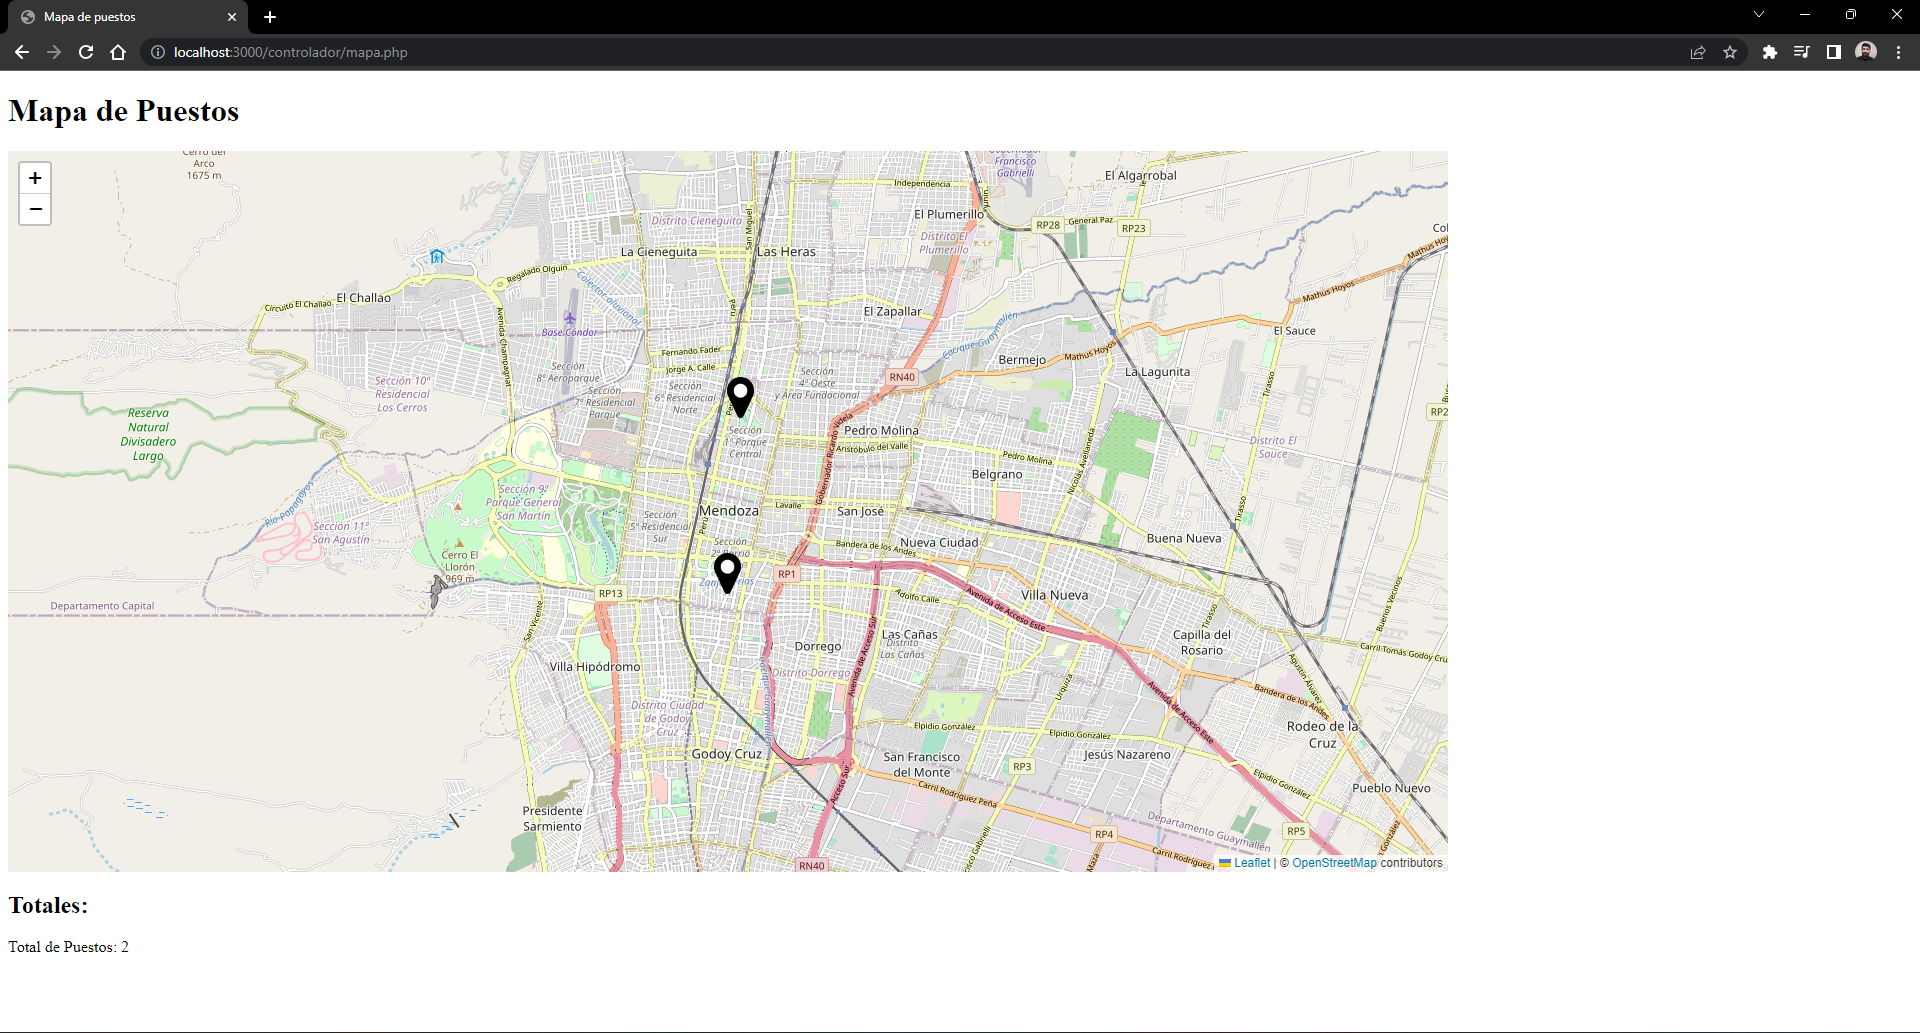
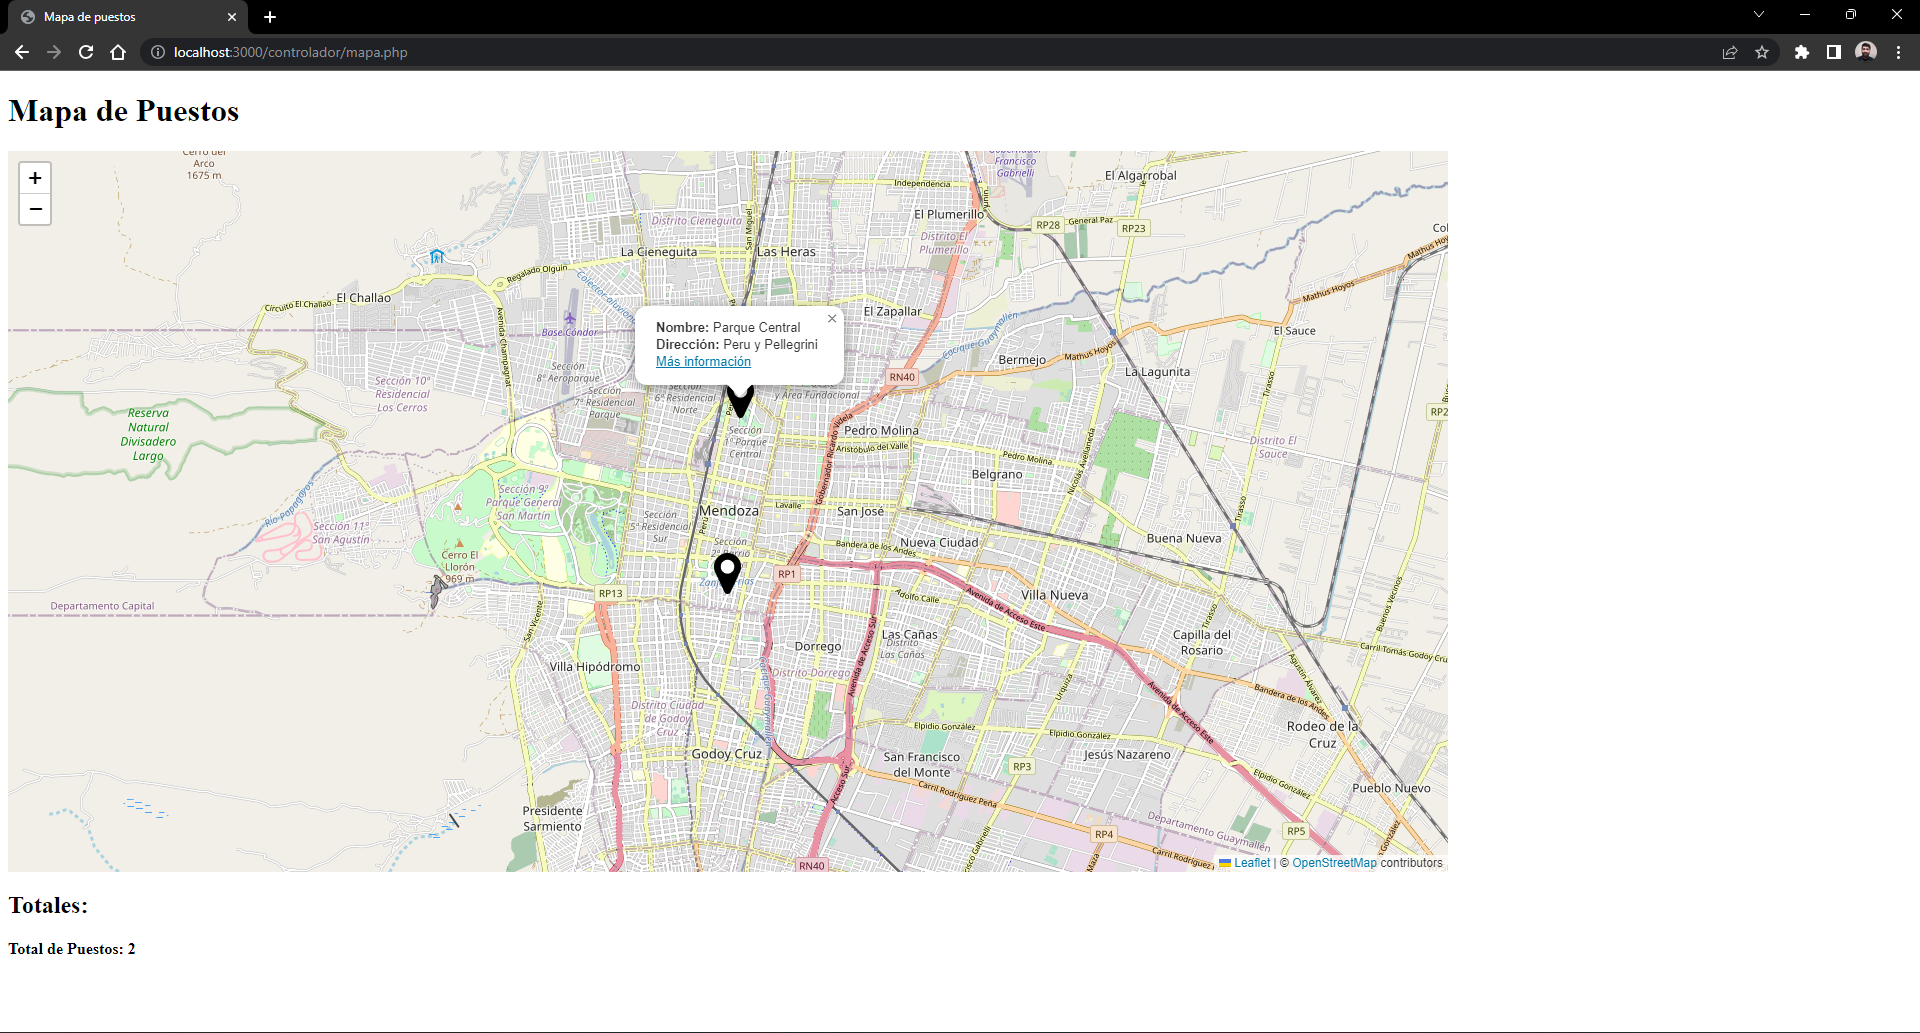
feat: improvements for maps (v1.1.8) * New queries to display more information about the maps. * New counters downside the map for categories. * Some modifications in the database.

Changed region(s): [[0.3125, 0.2788, 0.4688, 0.4027], [0.875, 0.031, 0.9375, 0.062], [0.0, 0.8984, 0.0625, 0.9293]]

diff --git a/vista/mapa.php b/vista/mapa.php
@@ -33,39 +33,52 @@
                     attribution: '&copy; <a href="https://www.openstreetmap.org/">OpenStreetMap</a> contributors',
                     maxZoom: 18,
                 }).addTo(map);
+
                 <?php
                 foreach ($marcadores as $marcador) {
                 ?>
-                    var marker = L.marker([<?= $marcador["latitud"] ?>, <?= $marcador["longitud"] ?>], {icon: chincheta}).addTo(map);
+                    var marker = L.marker([<?= $marcador["latitud"] ?>, <?= $marcador["longitud"] ?>], {
+                        icon: chincheta
+                    }).addTo(map);
+
+                    var direccion = "<b>Dirección:</b> <?= $marcador["direccion"] ?>";
                     <?php
                     if ($categoria == "carteles") {
                     ?>
-                        var popup = "<b>Dirección:</b> <?= $marcador["direccion"] ?><br><b>Encargado:</b> <?= $marcador["responsable"] ?><br><b>Tanda:</b> <?= $marcador["tanda"] ?>";
+                        var popup = direccion + "<br><b>Encargado:</b> <?= $marcador["responsable"] ?><br><b>Tanda:</b> <?= $marcador["tanda"] ?>";
                     <?php
                     } else if ($categoria == "locales") {
                     ?>
-                        var popup = "<b>Distrito:</b> <?= $marcador["distrito"] ?><br><b>Dirección:</b> <?= $marcador["direccion"] ?>";
+                        var popup = "<b>Distrito:</b> <?= $marcador["distrito"] ?><br>" + direccion;
                     <?php
                     } else {
                     ?>
-                        var popup = "<b>Nombre:</b> <?= $marcador["nombre"] ?><br><b>Dirección:</b> <?= $marcador["direccion"] ?><br><b>Encargado:</b> <?= $marcador["encargado"] ?>";
+                        var popup = '<b>Nombre:</b> <?= $marcador["nombre"] ?><br>' + direccion + '<br><a href="../controlador/puesto.php?<?= $marcador["nro_puesto"] ?>" target="_blank">Más información</a>';
                     <?php
                     }
                     ?>
+
                     marker.bindPopup(popup);
                 <?php
                 }
                 ?>
             </script>
         </div>
+
         <section>
             <h2>Totales:</h2>
-            <p>Total de <?= $listMapas[$categoria] ?>: <?= $total ?></p>
+            <h4>Total de <?= $listMapas[$categoria] ?>: <?= $total ?></h4>
             <?php
             if ($categoria == "carteles") {
                 foreach (array_keys($porTanda) as $tanda) {
             ?>
                     <p>Total de tanda <?= $tanda + 1 ?>: <?= $porTanda[$tanda] ?></p>
+                <?php
+                }
+            } else if ($categoria == "locales") {
+                foreach ($distritos as $distrito) {
+                ?>
+                    <p>Total en <?= $distrito ?>: <?= $porDistrito[$distrito] ?></p>
             <?php
                 }
             }

diff --git a/modelo/Consultas.php b/modelo/Consultas.php
@@ -185,7 +185,7 @@ class Consultas extends Conexion
         }
     }
 
-    // CONTADORES
+    // CONTADORES Y UNICOS
     public function contadorTotal($marcador)
     {
         try {
@@ -226,6 +226,45 @@ class Consultas extends Conexion
                 $total = $row["total"];
             }
             return $total;
+        } catch (Exception $e) {
+            $e->getMessage();
+        }
+    }
+
+    public function unicos($tabla, $columna)
+    {
+        try {
+            $link = parent::conexionBD();
+            $sql = "SELECT DISTINCT {$columna} FROM {$tabla} ORDER BY {$columna} ASC";
+            $result = mysqli_query($link, $sql);
+            $lista = [];
+            $i = 0;
+            while ($registro = mysqli_fetch_assoc($result)) {
+                $lista[$i] = $registro["distrito"];
+                $i += 1;
+            }
+            return $lista;
+        } catch (Exception $e) {
+            $e->getMessage();
+        }
+    }
+
+    // PUESTO
+    public function datosPuesto($puesto)
+    {
+        try {
+            $link = parent::conexionBD();
+            $sql = "SELECT p.nro_puesto, p.nombre AS nombre_p, p.direccion as mesas, e.nombre as nombre_e, e.celular
+                    FROM puestos p, encargados e
+                    WHERE p.nro_puesto = '$puesto' AND p.nro_puesto = e.puesto";
+            $result = mysqli_query($link, $sql);
+            $lista = [];
+            $i = 0;
+            while ($registro = mysqli_fetch_assoc($result)) {
+                $lista[$i] = $registro;
+                $i += 1;
+            }
+            return $lista;
         } catch (Exception $e) {
             $e->getMessage();
         }

diff --git a/controlador/mapa.php b/controlador/mapa.php
@@ -23,7 +23,14 @@ if (time() - $_SESSION["time"] < 600) {
             for ($i = 1; $i <= $tandas; $i++) {
                 $porTanda[$i-1] = $co->contadorPorValor($categoria, "tanda", $i);
             }
+        } else if ($categoria == "locales") {
+            $distritos = $co->unicos($categoria, "distrito");
+            $porDistrito = [];
+            foreach($distritos as $distrito) {
+                $porDistrito[$distrito] = $co->contadorPorValor($categoria, "distrito", $distrito);
+            }
         }
+
         require "../vista/mapa.php";
     } else {
         header("Location: 403.php");

diff --git a/vista/puesto.php b/vista/puesto.php
@@ -1,0 +1,24 @@
+<!DOCTYPE html>
+<html>
+
+<head>
+    <title>Puesto</title>
+    <meta charset="UTF-8">
+    <meta name="viewport" content="width=device-width, initial-scale=1.0">
+</head>
+
+<body>
+    <?php
+    echo "<h2>$puesto - {$encargados[0]['nombre_p']}</h2>";
+    foreach ($encargados as $encargado) {
+    ?>
+        <p>Encargado/a: <?= $encargado['nombre_e'] ?></p>
+        <p>Celular: <a href="tel:<?= $encargado['celular'] ?>"><?= $encargado['celular'] ?></a></p>
+    <?php
+    }
+    ?>
+
+    <input type=button name=boton value=Cerrar onclick="window.close()">
+</body>
+
+</html>

diff --git a/controlador/puesto.php b/controlador/puesto.php
@@ -1,0 +1,18 @@
+<?php
+session_start();
+if (time() - $_SESSION["time"] < 600) {
+    $_SESSION["time"] = time();
+    require "../modelo/Consultas.php";
+    $co = new Consultas;
+
+    if ($_SESSION["tipoUsuario"] != 2) {
+        $puesto = $_SERVER["QUERY_STRING"];
+        $encargados = $co->datosPuesto($puesto);
+
+        require "../vista/puesto.php";
+    } else {
+        header("Location: 403.php");
+    }
+} else {
+    header("Location: sesion-vencida.php");
+}

diff --git a/README.md b/README.md
@@ -48,3 +48,5 @@ The system has a registration form, a password reset request form, and a logout 
 <img src="screenshots/sshot06.png" width="50%">
 <br><br>
 <img src="screenshots/sshot07.png" width="50%">
+<br><br>
+<img src="screenshots/sshot08.png" width="50%">
